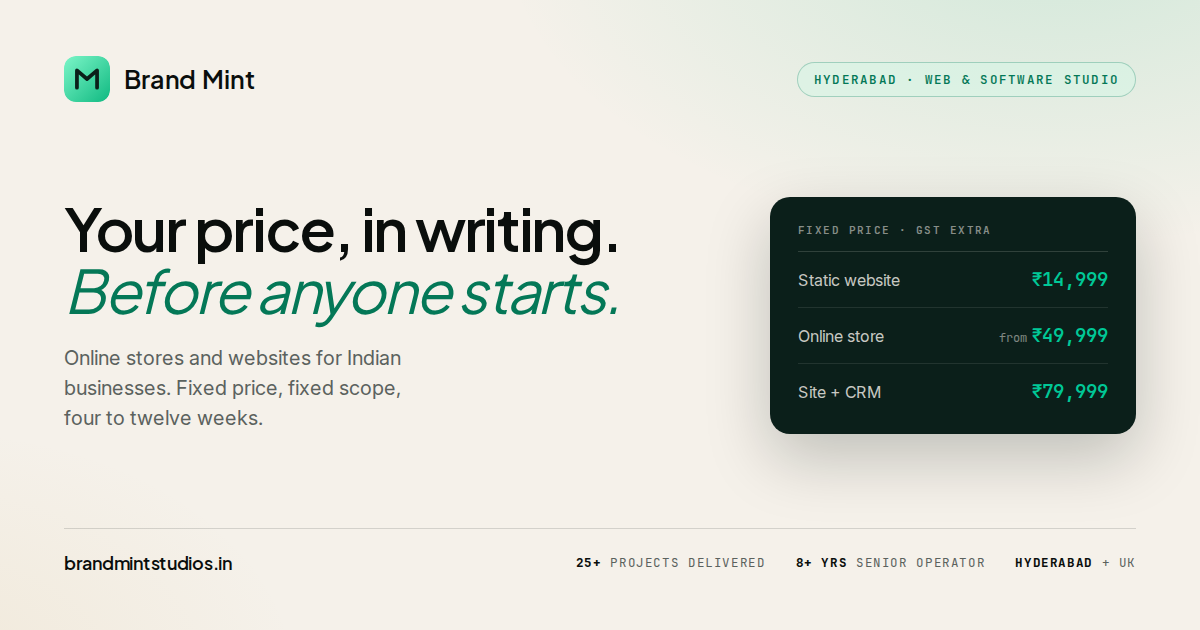
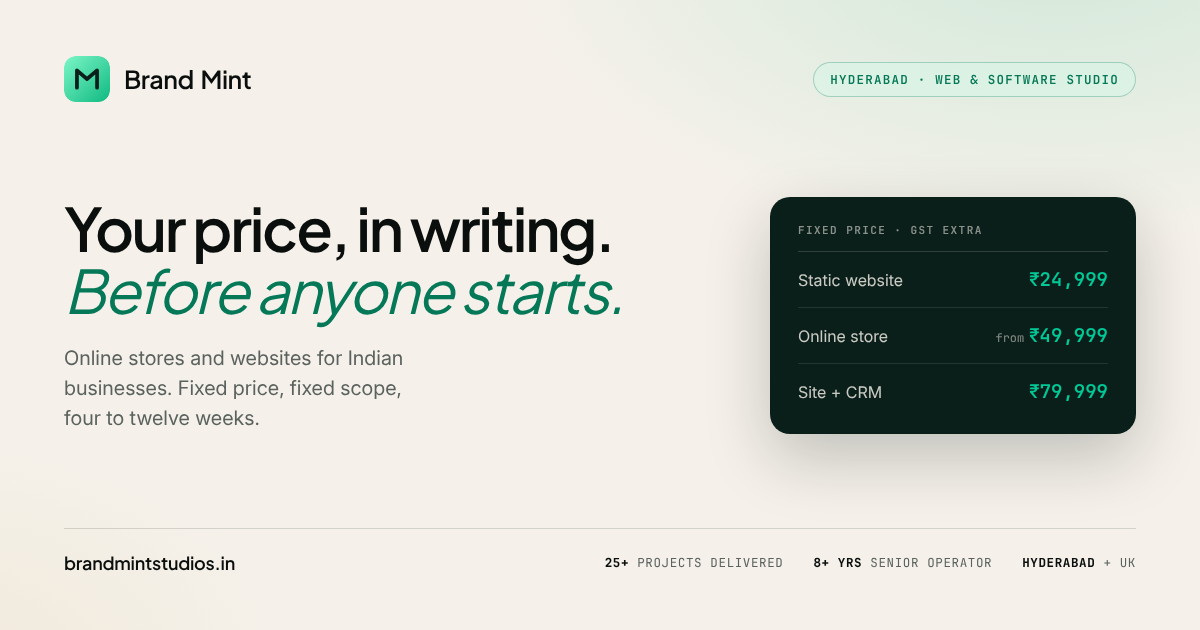
Static Website is ₹24,999 with SEO set up once; add the ₹4,999/mo SEO plan
The website price moves from ₹14,999 to ₹24,999 and now says what it
includes on the SEO side: titles, descriptions, sitemap, Google Search
Console verified and submitted — done once, properly, in the price.

After launch a website can continue on a new SEO care plan at ₹4,999 a
month (keyword tracking, new pages and content updates, technical fixes,
Search Console monitoring, a monthly report). It sits first in
CARE_PLANS, so it renders on /pricing and in the portal's after-launch
card with no further wiring.

Everything that carries the number follows: the structured data on the
home page (offer price and priceRange), the pricing page's meta
description and after-launch intro, the OG share image (template and
re-rendered PNG), CLAUDE.md, and the ?v= on every tiers.js/services.js
import so returning visitors do not see the cached ₹14,999.

Claude-Session: https://claude.ai/code/session_014yJZmnssEhj9Rk5NVwxvK7

diff --git a/pricing.html b/pricing.html
@@ -5,7 +5,7 @@
     <meta name="viewport" content="width=device-width, initial-scale=1, viewport-fit=cover" />
     <meta name="theme-color" content="#0b1f1a" />
     <title>Website &amp; Online Store Pricing — Brand Mint, Hyderabad</title>
-    <meta name="description" content="Every price we charge, in one place. Websites from ₹14,999, online stores from ₹49,999, Site + CRM from ₹79,999. Fixed prices, GST extra, agreed before we start." />
+    <meta name="description" content="Every price we charge, in one place. Websites from ₹24,999, online stores from ₹49,999, Site + CRM from ₹79,999. Fixed prices, GST extra, agreed before we start." />
     <link rel="canonical" href="https://brandmintstudios.in/pricing" />
     <meta property="og:type" content="website" />
     <meta property="og:locale" content="en_IN" />
@@ -248,10 +248,10 @@
           <p class="kicker">03 — After launch</p>
           <h2>The work does not stop at <em>launch.</em></h2>
           <p>
-            Every store can continue on a monthly care plan: updates tested on
-            staging, uptime and speed monitoring, security patches, monthly
-            merchandising, bug fixes and a health report. Cancel with 30 days'
-            notice.
+            Every site and store can continue on a monthly plan: ongoing SEO
+            for websites; for stores, updates tested on staging, uptime and
+            speed monitoring, security patches, monthly merchandising, bug
+            fixes and a health report. Cancel with 30 days' notice.
           </p>
         </header>
         <div class="care" id="care-plans" data-reveal-group><!-- shared/tiers.js --></div>
@@ -292,8 +292,8 @@
 
     <script>document.documentElement.classList.add("js");</script>
     <script type="module">
-      import { TIERS, CARE_PLANS, inr } from "/shared/tiers.js?v=v12";
-      import { SERVICES } from "/shared/services.js?v=v12";
+      import { TIERS, CARE_PLANS, inr } from "/shared/tiers.js?v=v13";
+      import { SERVICES } from "/shared/services.js?v=v13";
       import { WHATSAPP } from "/shared/resources.js?v=v11";
 
       // ---- the five categories

diff --git a/index.html b/index.html
@@ -38,7 +38,7 @@
       "image": "https://brandmintstudios.in/og-image.png",
       "description": "Brand Mint designs and builds online stores for Indian brands, in four fixed-price tiers. Based in HITEC City, Hyderabad.",
       "telephone": "+91-77999-34943",
-      "priceRange": "₹14,999–₹2,99,999",
+      "priceRange": "₹24,999–₹2,99,999",
       "address": {
         "@type": "PostalAddress",
         "addressLocality": "Hyderabad",
@@ -76,8 +76,8 @@
             "@type": "Offer",
             "position": 1,
             "name": "Static Website",
-            "description": "A fast five-page website on your own domain, with analytics and Search Console set up.",
-            "price": "14999",
+            "description": "A fast five-page website on your own domain, with SEO set up once — titles, descriptions, sitemap, Google Search Console verified — and analytics from day one.",
+            "price": "24999",
             "priceCurrency": "INR",
             "itemOffered": {
               "@type": "Service",
@@ -490,8 +490,8 @@
 
     <script>document.documentElement.classList.add("js");</script>
     <script type="module">
-      import { TIERS, STEPS, FAQ, inr } from "/shared/tiers.js?v=v12";
-      import { SERVICES } from "/shared/services.js?v=v12";
+      import { TIERS, STEPS, FAQ, inr } from "/shared/tiers.js?v=v13";
+      import { SERVICES } from "/shared/services.js?v=v13";
       import { WORK, BUILDING, PROOF } from "/shared/work.js?v=v14";
       // One import, one URL. Two imports of the same module under different
       // ?v= strings are two different URLs to the browser: it downloads the

diff --git a/shared/services.js b/shared/services.js
@@ -18,17 +18,18 @@ export const SERVICES = [
   {
     id: "website",
     name: "Static Website",
-    from: 14999,
+    from: 24999,
     unit: "one-time",
     note: "GST extra",
     blurb:
-      "A fast, honest website that says who you are and how to reach you. Up to five pages, your domain, your content, live in two weeks.",
+      "A fast, honest website that says who you are and how to reach you. Up to five pages, your domain, your content, SEO set up once and properly, live in two weeks.",
     points: [
       "Up to 5 pages, written and built with you",
       "Your domain, SSL and email set up",
       "WhatsApp and call buttons that work on a phone",
-      "Google Search Console verified and submitted",
+      "SEO set up once: titles, descriptions, sitemap, Google Search Console verified and submitted",
       "Visitor analytics from day one",
+      "Optional after launch: ongoing SEO at ₹4,999 a month",
     ],
     cta: { label: "Start with a website", href: "/login?tier=website" },
   },

diff --git a/login.html b/login.html
@@ -226,8 +226,8 @@
         cleanAuthParamsFromUrl,
         peekSession,
       } from "/auth/session.js?v=clean3";
-      import { TIER_BY_ID, inr } from "/shared/tiers.js?v=v12";
-      import { SERVICE_BY_ID, priceLabel } from "/shared/services.js?v=3";
+      import { TIER_BY_ID, inr } from "/shared/tiers.js?v=v13";
+      import { SERVICE_BY_ID, priceLabel } from "/shared/services.js?v=4";
       import { track } from "/shared/analytics.js?v=1";
 
       const params = new URLSearchParams(location.search);

diff --git a/shared/tiers.js b/shared/tiers.js
@@ -183,6 +183,12 @@ export function inr(n) {
 /** Monthly care plans, added after launch. Per month, exclusive of GST. */
 export const CARE_PLANS = [
   {
+    id: "seo",
+    name: "SEO",
+    price: 4999,
+    body: "For websites after launch: keyword tracking, new pages and content updates, technical fixes, Search Console monitoring and a monthly report on what moved.",
+  },
+  {
     id: "care",
     name: "Care",
     price: 12499,

diff --git a/brand-kit/templates/og-card.html b/brand-kit/templates/og-card.html
@@ -201,7 +201,7 @@
         <div class="panel-head">Fixed price · GST extra</div>
         <div class="row">
           <span class="row-name">Static website</span>
-          <span class="row-price">₹14,999</span>
+          <span class="row-price">₹24,999</span>
         </div>
         <div class="row">
           <span class="row-name">Online store</span>

diff --git a/CLAUDE.md b/CLAUDE.md
@@ -31,8 +31,8 @@ There is no contact form and no invite email. Sign-in **is** the form. Consent t
 | `index.html` + `styles.css` | **The landing page.** Hero with a proof panel, the work, three headline offers, how it works, who you work with, FAQ. Leads with work and books a call — it carries no price list |
 | `pricing.html` | Every price: the five categories, the four store tiers, the care plans. Linked from the nav and the home page |
 | `shared/work.js` | **The portfolio** — `WORK` (shipped brands), `BUILDING` (in development), `PROOF` (the numbers under the hero). Screenshots go in `work/<id>.jpg`; a missing one falls back to a typographic card. Never put a metric here that is not real |
-| `shared/services.js` | **The service ladder** — the five categories the home page lists (Static Website ₹14,999, Online Store from ₹49,999, Site + CRM ₹79,999 once, Custom CRM, Modcon HR), each with its starting price and CTA. A category id used as a CTA must also appear in the `tier in [...]` list on `leads` in `firestore.rules` |
-| `shared/tiers.js` | The four tiers (id, name, price, weeks, blurb, grouped inclusions), `CARE_PLANS`, `STEPS`, `FAQ`, `NEEDS`, and `inclusionsFor()`. Single source of truth for home, login, portal, admin |
+| `shared/services.js` | **The service ladder** — the five categories the home page lists (Static Website ₹24,999 with SEO set up once, Online Store from ₹49,999, Site + CRM ₹79,999 once, Custom CRM, Modcon HR), each with its starting price and CTA. A category id used as a CTA must also appear in the `tier in [...]` list on `leads` in `firestore.rules` |
+| `shared/tiers.js` | The four tiers (id, name, price, weeks, blurb, grouped inclusions), `CARE_PLANS` (SEO ₹4,999/mo for websites; Care, Growth, Managed Commerce for stores), `STEPS`, `FAQ`, `NEEDS`, and `inclusionsFor()`. Single source of truth for home, login, portal, admin |
 | `login.html` | Google sign-in, three states by URL: `?tier=<id>` (a buyer — "Almost there"), `?for=toolkit` (the free PDFs), and bare (a client — "Sign in to your project"; also where `?next=`, `?signedout=1`, `?denied=1` land). The nav's **Client login** is the bare state. Calls `recordSignup()` after auth; the toolkit email only fires for the first two |
 | `auth/session.js` | One Firebase Auth session for every surface. `requireRole()`, `getProfile()`, `recordSignup()`, `claimPendingInvites()` |
 | `firebase/app.js`, `firebase/config.js` | SDK loader and web config. **Three placeholder values in config.js must be filled from the console** — see `SETUP-FIREBASE.md` |
